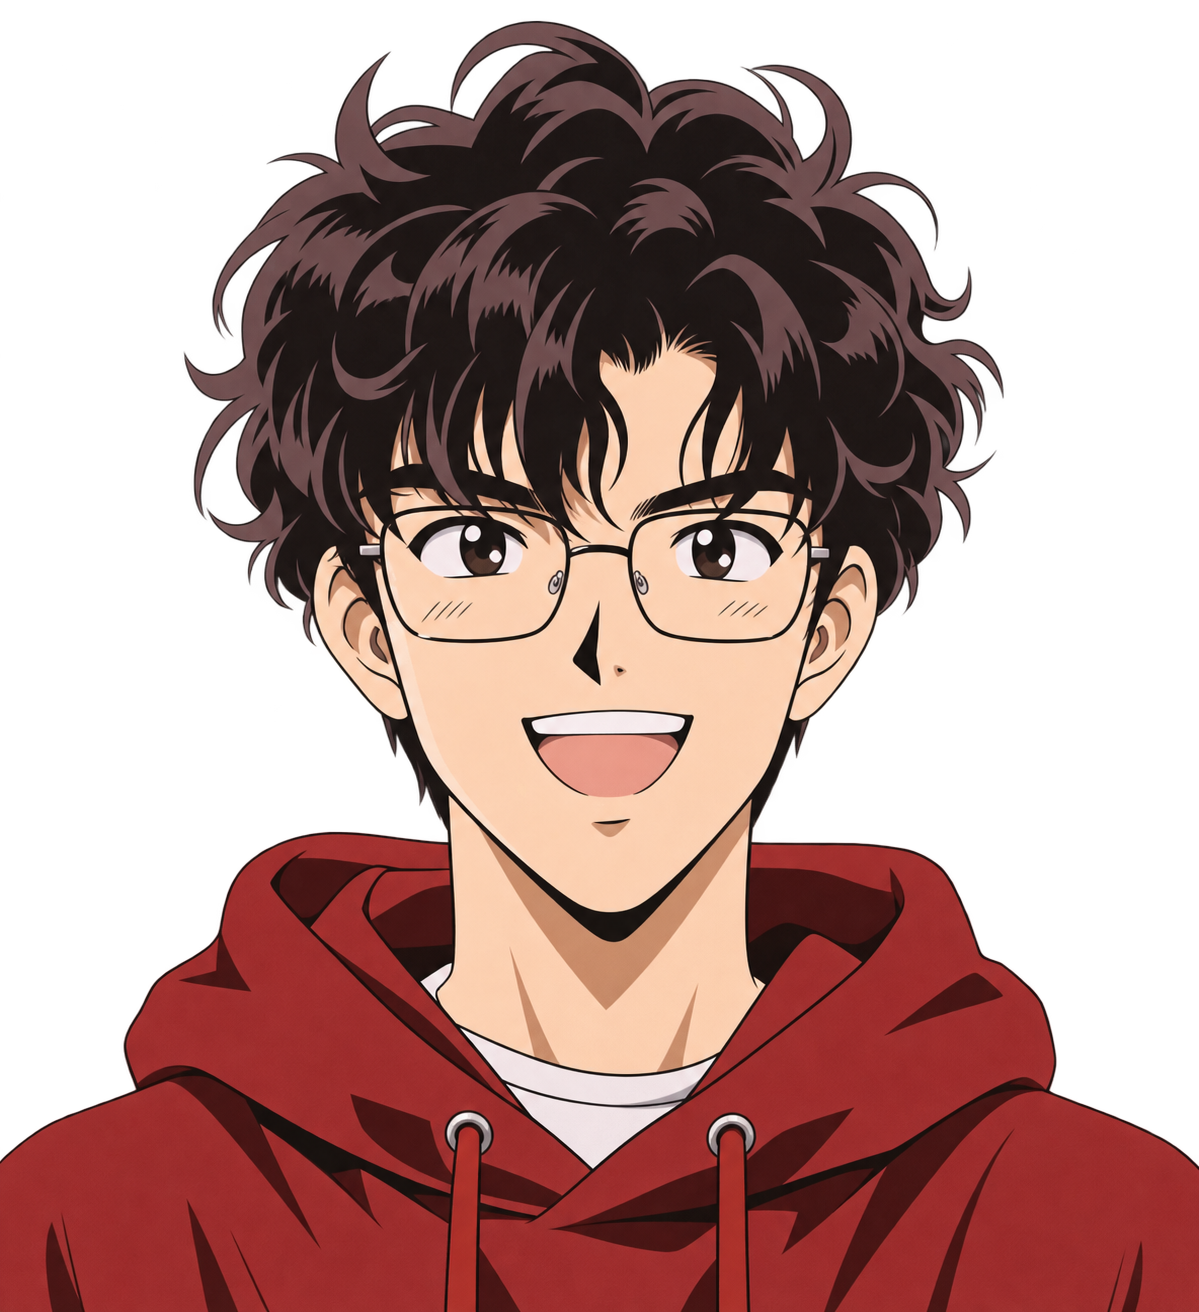
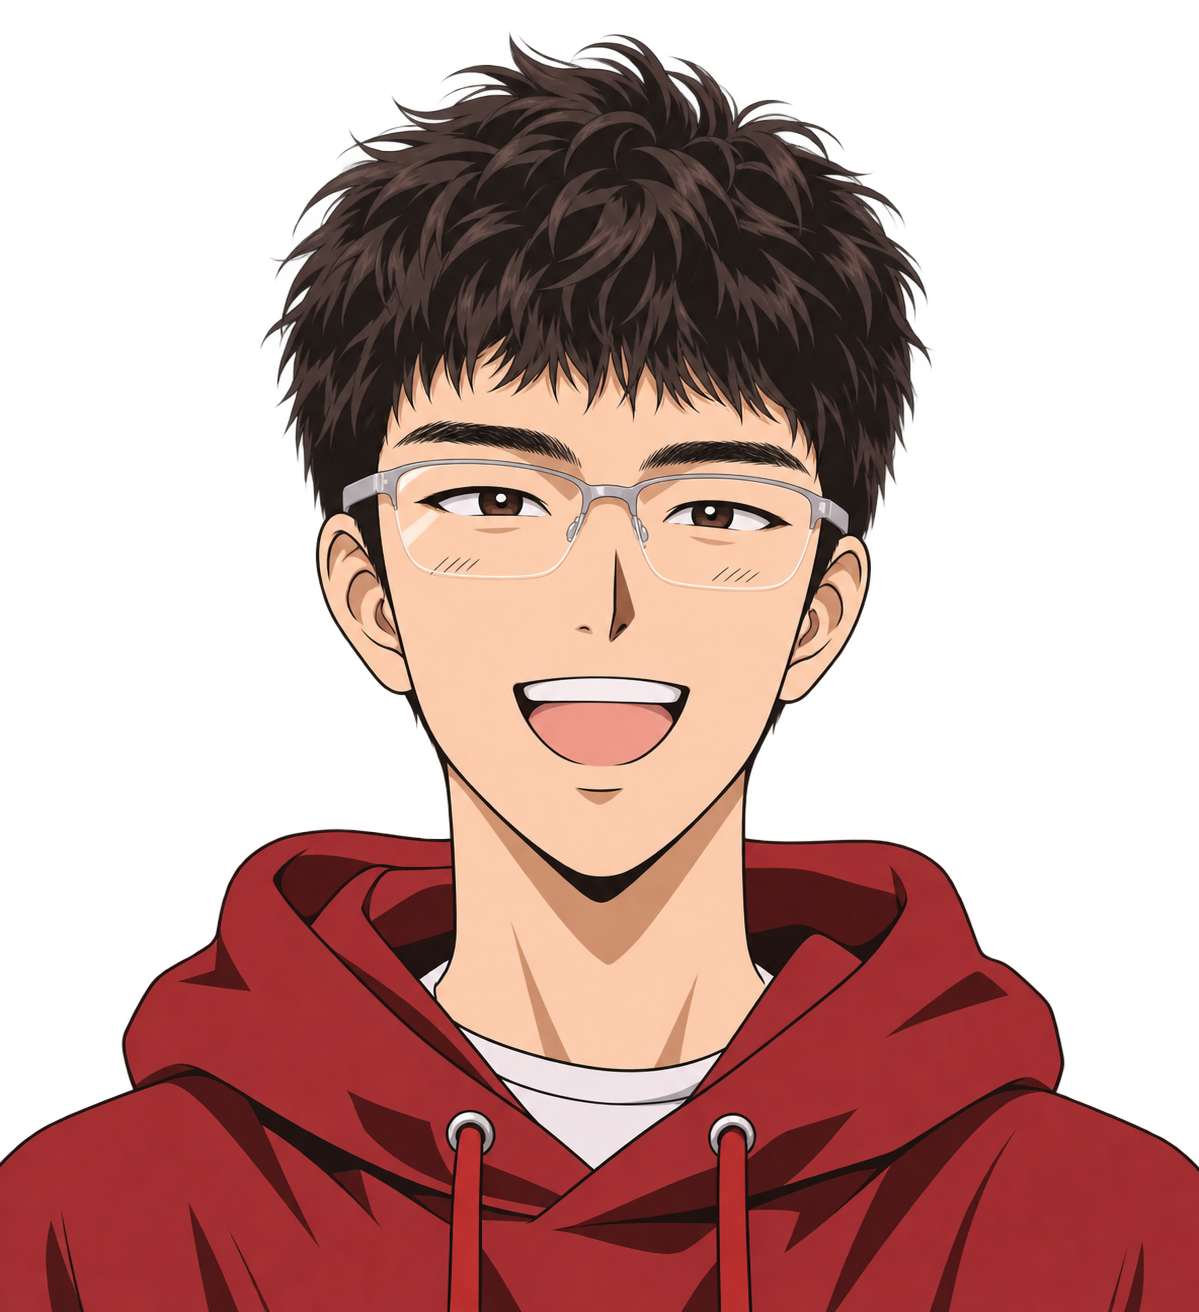
Refine mystery script and add scene artwork

diff --git a/README.md b/README.md
@@ -18,15 +18,15 @@
 | 小莉 | 鼓手 | [立绘](assets/小莉.png) |
 | 亚瑟 | 随队巡演的小提琴手 | [立绘](assets/arthur.png)、[倒地场景图](assets/arthur-dead.png) |
 | 托尼 | 团长兼贝斯手，负责演出策划 | [立绘](assets/tony.png) |
-| 蛋仔 | 吉他手 | [立绘](assets/蛋仔.png) |
+| 蛋仔 | 吉他手 | [演出立绘](assets/蛋仔.png)、[便装立绘](assets/蛋仔-便装.png) |
 | 小柔（Miko） | 女主唱，威利的前任 | [立绘](assets/小柔.png) |
 | 威利 | 男主唱兼键盘手 | [立绘](assets/willy.png) |
 
 ## 待补充
 
 - 剧本待明确坠楼前后的时间线、小柔约谈的具体目的，以及走廊灯和手腕伤的来由。
-- 举证待补强人物与枕头、车辆之间的联系，并核对每一轮要求玩家提交的线索是否足以支持对应推断。
-- 图片待补洛克的指认头像、威利佩戴领带夹的演出造型和散场合照、领带夹特写，以及小柔和警方拍摄的两张亚瑟右手证据照。
+- 举证待补强蛋仔与车辆之间的联系，并核对每一轮要求玩家提交的线索是否足以支持对应推断。
+- 现有证据图包括[散场合照](assets/band-group-photo.png)。待补洛克视角下亚瑟的右手特写，指缝里露一点银边，指甲缝里的黑色残屑隐约可见。
 
 ## 单 HTML 交付
 
